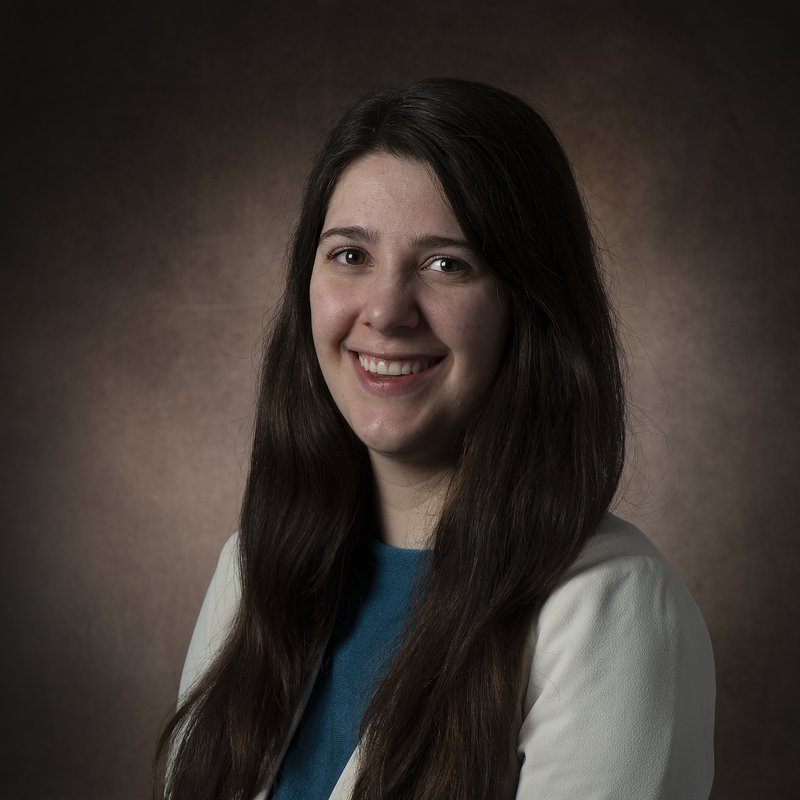
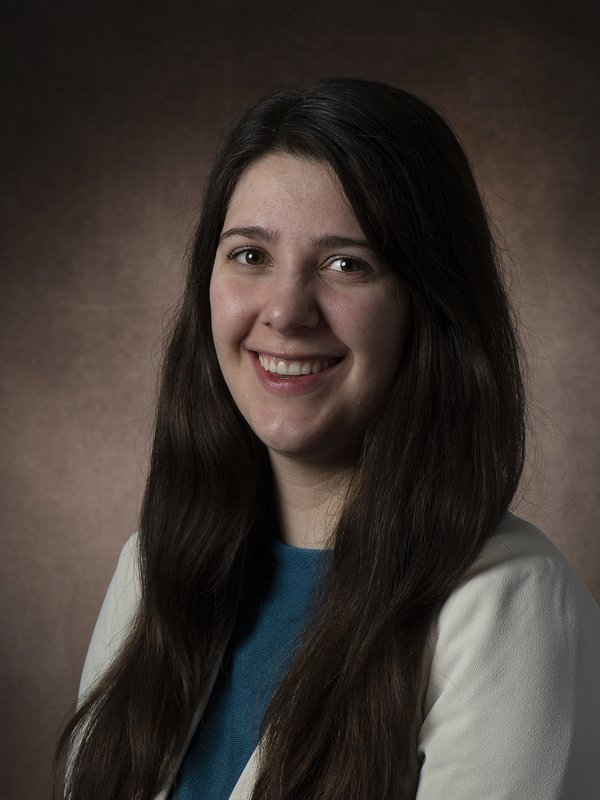
Match portrait photo height to the intro text
Re-crops the EUR photo as a 3:4 portrait and stretches it to the
height of the text block on wide screens.

diff --git a/css/style.css b/css/style.css
@@ -88,19 +88,23 @@ section + section { border-top: 1px solid var(--line); }
 
 .hero {
   display: grid;
-  grid-template-columns: 1fr 220px;
+  grid-template-columns: 1fr 280px;
   gap: 48px;
-  align-items: start;
+  align-items: stretch;
   padding-block: 64px 48px;
 }
 
+/* Photo on the right, stretched to exactly the height of the text.
+   "contain: size" stops the photo from setting the height itself,
+   so the text decides and the photo fills it (cropped, not squashed). */
 .hero img {
-  grid-column: 2;   /* photo on the right, text on the left */
+  grid-column: 2;
   grid-row: 1;
   width: 100%;
-  height: auto;
-  aspect-ratio: 1 / 1;
+  height: 100%;
+  contain: size;
   object-fit: cover;
+  object-position: center 30%;
   border-radius: 6px;
 }
 
@@ -184,7 +188,8 @@ footer {
 
 @media (max-width: 680px) {
   .hero { grid-template-columns: 1fr; gap: 28px; padding-block: 36px; }
-  .hero img { grid-column: 1; max-width: 200px; }  /* photo above text on phones */
+  /* On phones: square photo above the text */
+  .hero img { grid-column: 1; max-width: 200px; height: auto; contain: none; aspect-ratio: 1 / 1; }
   h1 { font-size: 2rem; }
   .page-title { padding-top: 36px; }
 }

diff --git a/index.html b/index.html
@@ -25,7 +25,7 @@
 
   <main class="wrap">
     <section class="hero">
-      <img src="images/ilse-eur.jpg" alt="Portrait of Ilse van der Voort" width="800" height="800">
+      <img src="images/ilse-eur.jpg" alt="Portrait of Ilse van der Voort" width="600" height="800">
       <div>
         <h1>Ilse van der Voort</h1>
         <p class="role">PhD Candidate in Economics · Erasmus University Rotterdam &amp; Tinbergen Institute</p>
